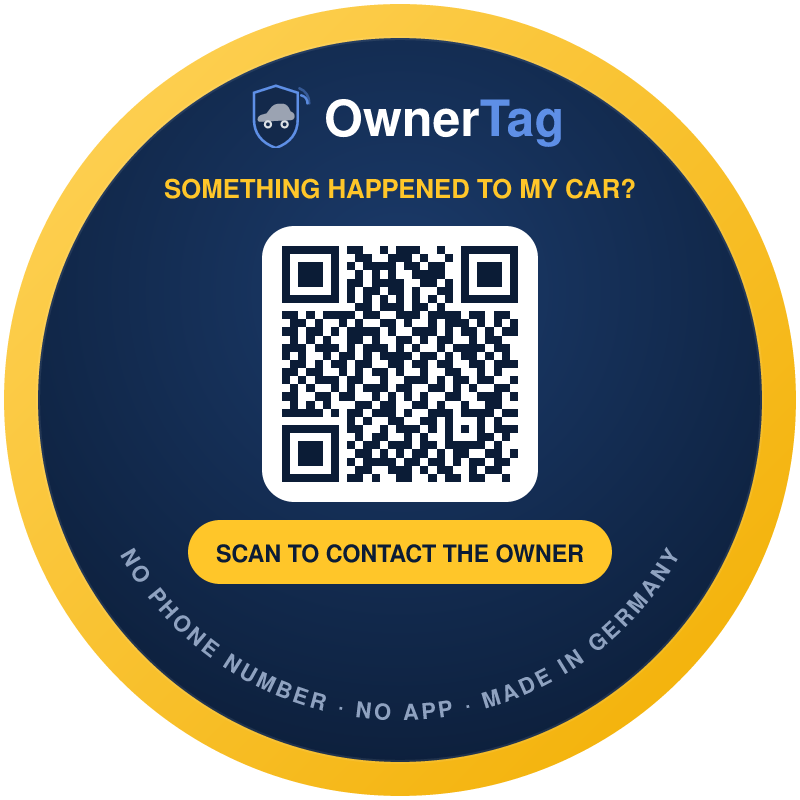
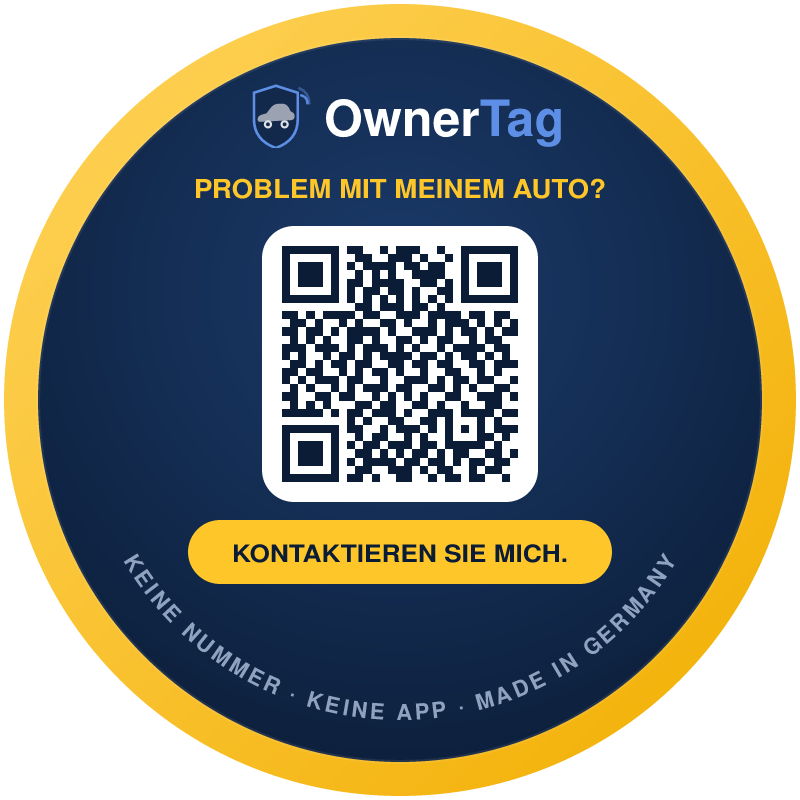
deploy 2026-09-28 13:17

diff --git a/src/shop.js b/src/shop.js
@@ -405,7 +405,7 @@ async function buildRoundSvg(id) {
     <circle cx="36" cy="92" r="7" fill="none" stroke="#DCE1E6" stroke-width="5"/><circle cx="74" cy="92" r="7" fill="none" stroke="#DCE1E6" stroke-width="5"/>
     <g fill="none" stroke="${BLUE}" stroke-width="6" stroke-linecap="round"><path d="M112 26 A18 18 0 0 1 126 44" opacity=".95"/><path d="M108 10 A34 34 0 0 1 130 44" opacity=".45"/></g></g>
   <text x="500" y="216" text-anchor="middle" font-family="Outfit,Arial,sans-serif" font-weight="bold" font-size="66" letter-spacing="-1.5" fill="#FFFFFF">Owner<tspan fill="${BLUE}">Tag</tspan></text>
-  <text x="500" y="266" text-anchor="middle" font-family="Arial,sans-serif" font-weight="bold" font-size="25" letter-spacing="1.5" fill="#DDE3EC">SOMETHING HAPPENED TO MY CAR?</text>
+  <text x="500" y="266" text-anchor="middle" font-family="Arial,sans-serif" font-weight="bold" font-size="28" textLength="420" lengthAdjust="spacingAndGlyphs" fill="#DDE3EC">PROBLEM MIT MEINEM AUTO?</text>
   <g fill="none" stroke="${Y}" stroke-width="13" stroke-linecap="round">
     <path d="M234 405 A66 66 0 0 0 234 525"/><path d="M202 381 A100 100 0 0 0 202 549"/>
     <path d="M766 405 A66 66 0 0 1 766 525"/><path d="M798 381 A100 100 0 0 1 798 549"/></g>
@@ -413,8 +413,8 @@ async function buildRoundSvg(id) {
   <rect x="341" y="294" width="318" height="318" rx="26" fill="#FFFFFF"/>
   ${qr}
   <rect x="282" y="678" width="436" height="58" rx="29" fill="url(#ring-${u})"/>
-  <text x="500" y="717" text-anchor="middle" font-family="Outfit,Arial,sans-serif" font-weight="bold" font-size="27" textLength="384" lengthAdjust="spacingAndGlyphs" fill="#0B1C36">SCAN TO CONTACT THE OWNER</text>
-  <text font-family="Arial,sans-serif" font-weight="bold" font-size="25" letter-spacing="3.5" fill="#DDE3EC"><textPath href="#ra-${u}" startOffset="50%" text-anchor="middle">NO PHONE NUMBER · NO APP · MADE IN GERMANY</textPath></text>
+  <text x="500" y="717" text-anchor="middle" font-family="Outfit,Arial,sans-serif" font-weight="bold" font-size="29" textLength="352" lengthAdjust="spacingAndGlyphs" fill="#0B1C36">KONTAKTIEREN SIE MICH.</text>
+  <text font-family="Arial,sans-serif" font-weight="bold" font-size="25" letter-spacing="3.5" fill="#DDE3EC"><textPath href="#ra-${u}" startOffset="50%" text-anchor="middle">KEINE NUMMER · KEINE APP · MADE IN GERMANY</textPath></text>
 </svg>`;
 }
 
